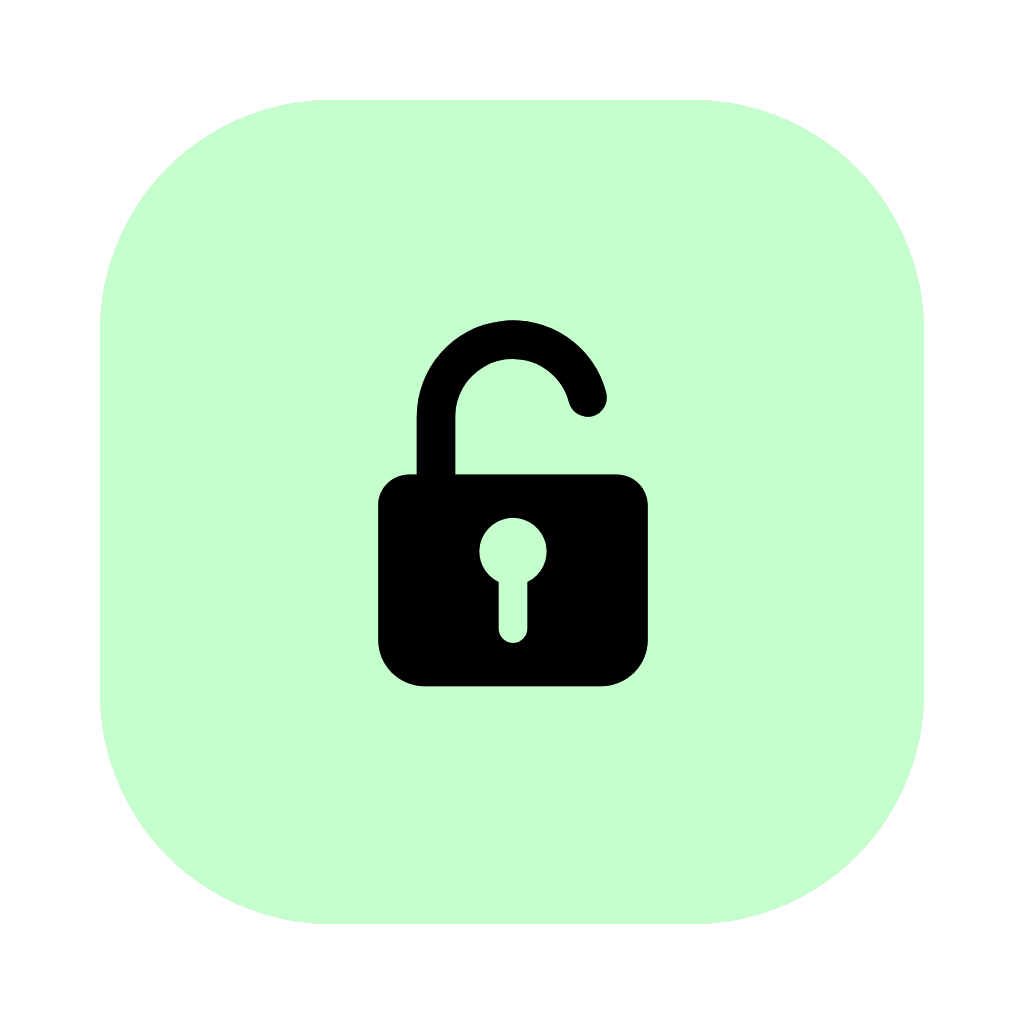
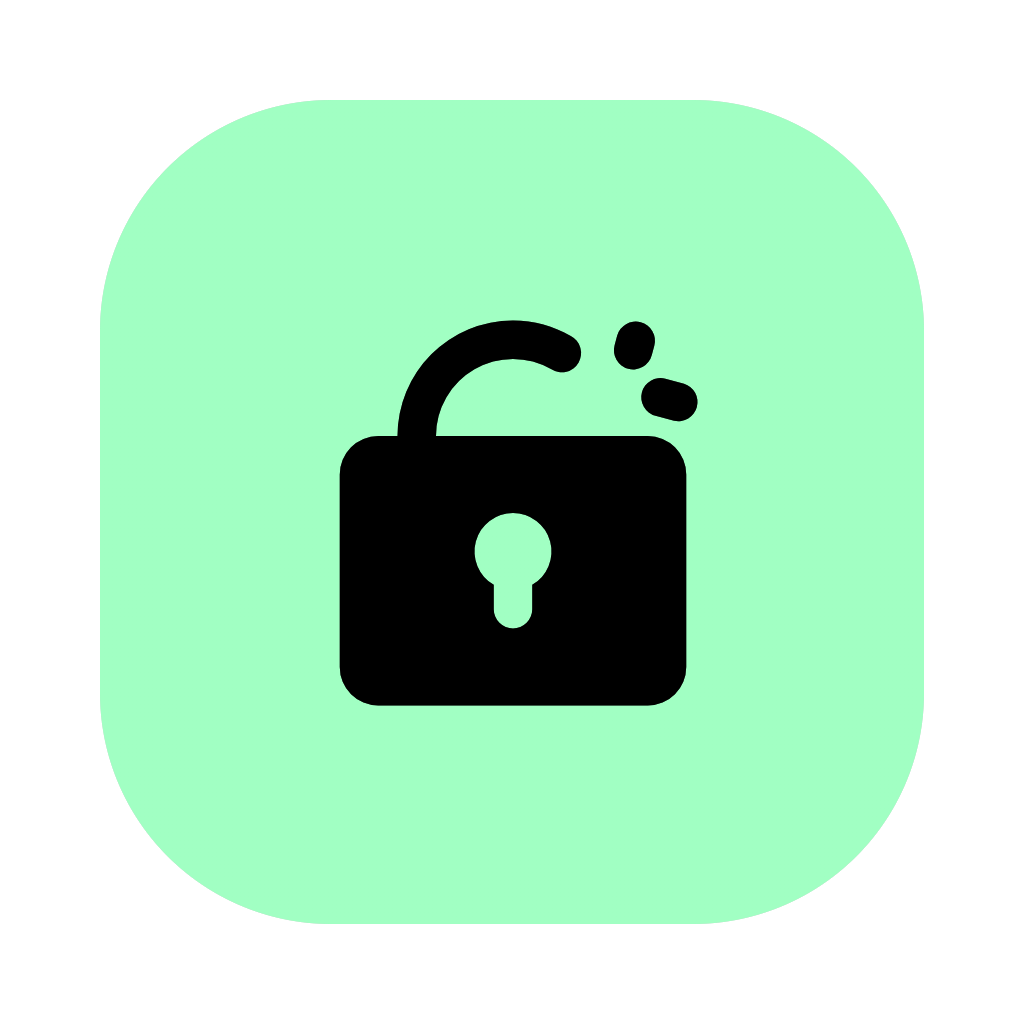
feat: more beautiful ui

diff --git a/src/menu/menu.tsx b/src/menu/menu.tsx
@@ -9,8 +9,8 @@ export default function Menu() {
     const [open, setOpen] = useState(false)
 
     const [randomPageOpened, setRandomPageOpened] = useState(false)
-    const [locked, setLocked] = useState(false)
-    const [canClickThrough, setCanClickThrough] = useState(false)
+    const [locked, setLocked] = useState(!moveable)
+    const [canClickThrough, setCanClickThrough] = useState(click_through)
 
     useEffect(() => {
         getCurrentWindow().setSize(new LogicalSize(40, 40)).then()
@@ -20,38 +20,37 @@ export default function Menu() {
         const window = getCurrentWindow();
         if (!open) {
             await window.setSize(new LogicalSize(160, 40))
+            setOpen(!open)
         } else {
-            await window.setSize(new LogicalSize(40, 40))
+            setOpen(!open)
+            setTimeout(async ()=>{await window.setSize(new LogicalSize(40, 40))}, 500)
         }
-        setOpen(!open)
     }
 
-    return <div className={"main"}>
-        <div className={"menu-icon"} onClick={changeOpen}></div>
-        {
-            (!open) ? undefined : <div className={"icons-bar"}>
-                <div className={`random-icon ${randomPageOpened ? "enabled" : "disabled"}`} onClick={async () => {
-                    const window = await WebviewWindow.getByLabel("random")
-                    if (window) {
-                        if (await window.isVisible()) {
-                            window.hide().then(() => {
-                                setRandomPageOpened(false)
-                            })
-                        } else {
-                            window.show().then(() => {
-                                setRandomPageOpened(true)
-                            })
+    return <div className={`main ${open ? "enabled" : "disabled"}`} onContextMenu={(e)=>{e.preventDefault()}}>
+        <div className={`menu-icon ${open ? "enabled" : "disabled"}`} onClick={changeOpen}></div>
+        <div className={"icons-bar"}>
+            <div className={`random-icon ${randomPageOpened ? "enabled" : "disabled"}`} onClick={async () => {
+                const window = await WebviewWindow.getByLabel("random")
+                if (window) {
+                    if (await window.isVisible()) {
+                        window.hide().then(() => {
+                            setRandomPageOpened(false)
+                        })
+                    } else {
+                        window.show().then(() => {
+                            setRandomPageOpened(true)
+                        })
 
-                        }
                     }
-                }}></div>
-                <div className={`lock-icon ${!locked ? "enabled" : "disabled"}`} onClick={() => {
-                    emit("change-lock").then(()=>{setLocked(!moveable)})
-                }}></div>
-                <div className={`click-through-icon ${canClickThrough ? "enabled" : "disabled"}`} onClick={()=>{
-                    emit("change-click_through").then(()=>{setCanClickThrough(click_through)})
-                }}></div>
-            </div>
-        }
+                }
+            }}></div>
+            <div className={`lock-icon ${!locked ? "enabled" : "disabled"}`} onClick={() => {
+                emit("change-lock").then(()=>{setLocked(!moveable)})
+            }}></div>
+            <div className={`click-through-icon ${canClickThrough ? "enabled" : "disabled"}`} onClick={()=>{
+                emit("change-click_through").then(()=>{setCanClickThrough(click_through)})
+            }}></div>
+        </div>
     </div>
 }

diff --git a/src/menu/menu.scss b/src/menu/menu.scss
@@ -13,9 +13,17 @@ body {
 
 .main {
   border-radius: 20px;
+  width: 40px;
   height: 100vh;
   display: flex;
   background-color: rgba(0,0,0,30%);
+  overflow: hidden;
+
+  transition: width 0.5s ease;
+
+  &.enabled {
+    width: 100%;
+  }
 }
 
 .menu-icon {
@@ -28,6 +36,13 @@ body {
   height: 32px;
   user-select: none;
   content: url("../assets/icon.svg");
+
+  transition: transform 0.5s ease, opacity 0.5s ease;
+
+  &.enabled {
+    opacity: 1;
+    transform: rotate(360deg);
+  }
 }
 
 .icons-bar {
@@ -35,12 +50,17 @@ body {
   flex-direction: row;
 }
 
-.random-icon {
+.random-icon,
+.lock-icon,
+.click-through-icon {
   margin-top: 4px;
-  margin-left: 8px;
+  margin-left: 5px;
   width: 32px;
   height: 32px;
+}
 
+.random-icon {
+  margin-left: 8px;
   &.disabled {
     content: url("../assets/random-onFocus.png");
 
@@ -59,11 +79,6 @@ body {
 }
 
 .lock-icon {
-  margin-top: 4px;
-  margin-left: 6px;
-  width: 32px;
-  height: 32px;
-
   &.disabled {
     content: url("../assets/lock-locked.png");
 
@@ -82,16 +97,19 @@ body {
 }
 
 .click-through-icon {
-  margin-top: 4px;
-  margin-left: 6px;
-  width: 32px;
-  height: 32px;
-
   &.disabled {
     content: url("../assets/click_through.png");
+
+    &:hover {
+      content: url("../assets/click_through-onFocus.png");
+    }
   }
 
   &.enabled {
     content: url("../assets/click_through-enabled.png");
+
+    &:hover {
+      content: url("../assets/click_through-onFocus-enabled.png.png");
+    }
   }
 }

diff --git a/src/randomer/randomer.scss b/src/randomer/randomer.scss
@@ -2,13 +2,6 @@
 @import "windows-ui-fabric/dist/windows-ui.min.css";
 @import "windows-ui-fabric/dist/icons/winui-icons.min.css";
 
-#root {
-    /*width: 130px !important;*/
-    /*height: 100% !important;*/
-    /*display: block !important;*/
-    /*position: absolute !important;*/
-}
-
 .app-progress-container {
     width: 120px;
     position: absolute;
@@ -17,12 +10,12 @@
 }
 
 body {
-    /*width: 120px !important;*/
-    /*height: 180px !important;*/
-    /*display: block !important;*/
-    /*position: absolute !important;*/
-    background-color: rgba(255, 255, 255, 80%) !important;
-    overflow: hidden !important;
+    width: 100%;
+    height: 100vh;
+    margin: 0;
+    padding: 0;
+    background-color: rgba(255, 255, 255, 0);
+    overflow: hidden;
     -webkit-overflow: hidden;
 }
 
@@ -31,9 +24,13 @@ html {
 }
 
 .background {
+    display: block;
+    position: absolute;
     width: 100%;
-    height: 100%;
+    height: 100vh;
     -webkit-user-drag: none;
+    background-color: rgba(255, 255, 255, 80%);
+    border-radius: 15px;
 }
 
 #print {

diff --git a/src/App.tsx b/src/App.tsx
@@ -28,7 +28,9 @@ export default function App() {
         <>
             <div id={"main-div"}
                  className={`${moveable?"tauri-drag":undefined}`}
-                 draggable={false}>
+                 draggable={false}
+                 onContextMenu={(e)=>{e.preventDefault()}}
+            >
                 {time}
             </div>
         </>

diff --git a/src/App.scss b/src/App.scss
@@ -4,11 +4,15 @@ div {
     user-select: none;
     margin: auto;
     width: 100%;
-    height: 100%;
+    height: 100vh;
 }
 
 body {
     overflow: hidden;
+    height: 100vh;
+    width: 100%;
+    display: flex;
+    padding: 0;
 }
 
 .tauri-drag {
